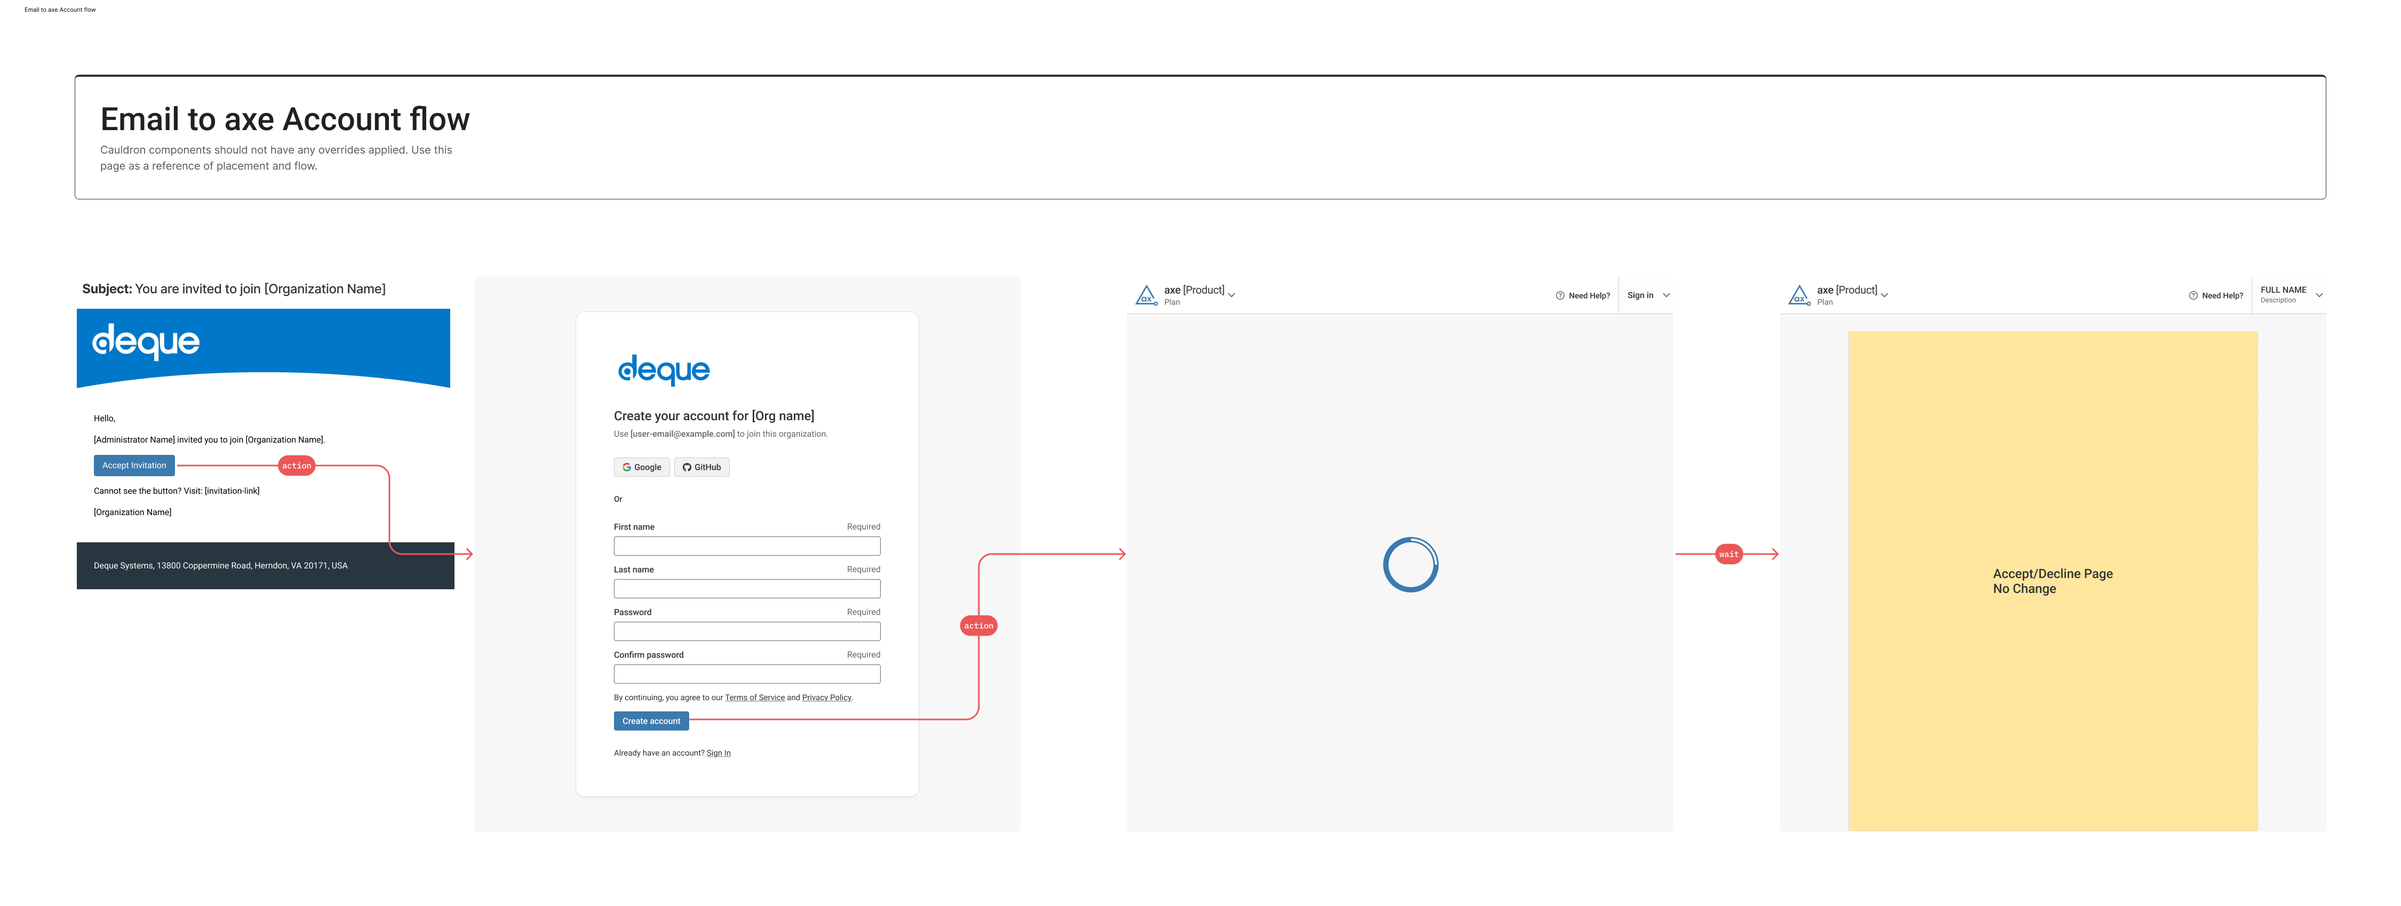
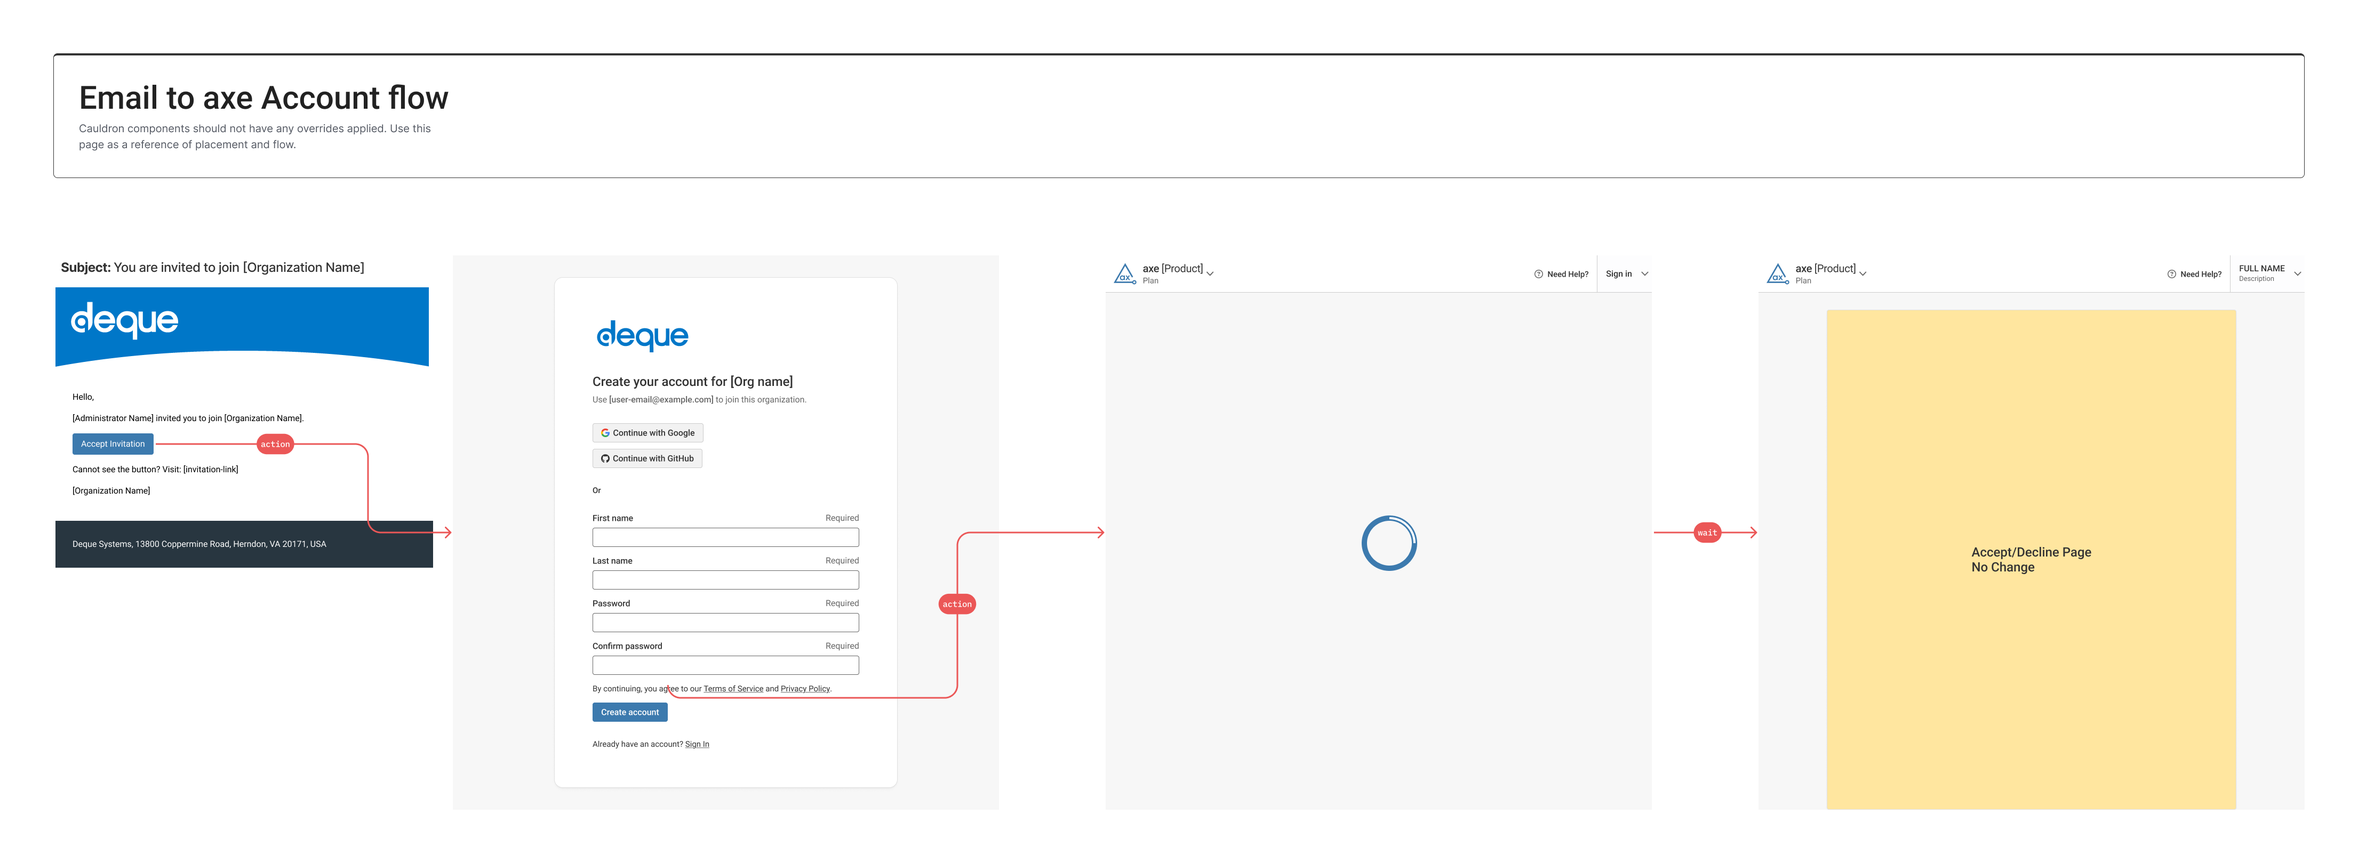
New case-study for invite

diff --git a/user-invites.html b/user-invites.html
@@ -1,0 +1,193 @@
+<!DOCTYPE html>
+<html lang="en">
+<head>
+<!-- Google tag (gtag.js) -->
+<script async src="https://www.googletagmanager.com/gtag/js?id=G-LLV9G8KB47"></script>
+<script>
+  window.dataLayer = window.dataLayer || [];
+  function gtag(){dataLayer.push(arguments);}
+  gtag('js', new Date());
+  gtag('config', 'G-LLV9G8KB47');
+</script>
+    <meta charset="UTF-8">
+    <meta name="viewport" content="width=device-width, initial-scale=1.0">
+    <meta name="description" content="A portfolio site dedicated to Shawn Sharp's work."/>
+    <meta name="keywords" content="interaction design, visual design, graphic design, ux design, product design"/>
+    <meta name="copyright" content="Copyright Shawn Sharp 2025"/>
+    <meta name="author" content="Shawn Sharp"/>
+    <title>Simplifying user invitations by Shawn Sharp</title>
+    <link rel="stylesheet" href="css/styles.css">
+</head>
+<body>
+    <a href="#main-content" class="skip-link">Skip to main content</a>
+    
+    <header>
+        <div class="container">
+            <div class="header-content">
+                <a href="/" aria-current="page" class="logo">
+                    <img src="img/Sharp.png" alt="Shawn Sharp Logo">
+                </a>
+                
+                <nav>
+                    <button aria-expanded="false" aria-controls="nav-menu" class="menu-toggle">Menu</button>
+                    <ul id="nav-menu" class="nav-menu">
+                        <li><a href="index.html#work">Work</a></li>
+                        <li><a href="index.html#about">About</a></li>
+                        <li><a href="index.html#contact">Contact</a></li>
+                    </ul>
+                </nav>
+            </div>
+        </div>
+    </header>
+
+    <main id="main-content">
+        <article id="project1" class="case-study">
+            <section class="case-studies-intro">
+                <div class="container">
+                    <h1>Simplifying user invitations</h1>
+                    <p>Reducing a 10-step invitation process to 4 by eliminating redundant verification and surfacing critical requirements upfront.</p>
+                </div>
+            </section>
+
+            <div class="container">
+                <section class="case-study-content">
+                    <h2>The problem</h2>
+                    <p>Enterprise customers were creating their own documentation to help employees get started with our products. These PDF guides, complete with screenshots and step-by-step instructions, revealed a critical usability failure in our invitation flow.</p>
+                    <p><strong>As one enterprise customer told us during a call:</strong> "It takes 13 steps just to get started."</p>
+                    <p>In reality, it was 10 steps, but that was hardly better. Users bounced between the web browser and their email repeatedly. The flow was fragmented, confusing, and inconsistent across different scenarios (SaaS, SSO, on-prem). Years of patched repairs had created mismatched terminology and unnecessary verification steps.</p>
+                    <p><strong>The consequences were significant:</strong></p>
+                    <ul>
+                        <li>Enterprise customers were spending time creating workaround documentation instead of trusting our product</li>
+                        <li>Support tickets piled up from users who accidentally signed up with different emails than their invitations</li>
+                        <li>The experience felt dated. Customers repeatedly described our interface as "Windows 95"</li>
+                        <li>New users faced friction before ever reaching the product, damaging first impressions</li>
+                        <li>Inconsistent flows across deployment types created confusion and eroded trust</li>
+                    </ul>
+                    <p>This was not just a usability problem. It was a credibility problem. We needed to eliminate the redundant steps, create consistency across all scenarios, and bring the experience into the current era.</p>
+                </section>
+
+                <section class="case-study-content">
+                    <h2>The solution</h2>
+                    <p>We reduced the invitation flow from 10 steps to 4, eliminating redundant verification steps and front-loading critical requirements. The redesigned flow keeps users in a single context, removes unnecessary form fields, and provides a modern, accessible interface.</p>
+                    <p><strong>Key innovations:</strong></p>
+                    <ul>
+                        <li>Moved terms and conditions consent upfront instead of mid-flow, eliminating a step and meeting legal requirements earlier</li>
+                        <li>Removed the signup form entirely since invited users already have validated email addresses</li>
+                        <li>Eliminated redundant email verification in invite flows (the invitation itself serves as verification</li>
+                        <li>Consolidated user interactions behind loading states, hiding unnecessary complexity</li>
+                        <li>Refreshed visual design with improved spacing, structured layouts, and modern aesthetic</li>
+                    </ul>
+                    <p><strong>The impact:</strong></p>
+                    <ul>
+                        <li>60% reduction in steps (from 10 to 4)</li>
+                        <li>Eliminated common support issue (wrong email during signup)</li>
+                        <li>Single, consistent flow across all deployment scenarios (SaaS, SSO, on-prem)</li>
+                        <li>Modern interface addresses long-standing "dated" perception</li>
+                        <li>Currently in development, scheduled for Q1 2026 release</li>
+                    </ul>
+
+                </section>
+                <section class="case-study-content">
+                    <h2>My role</h2>
+                    <p>I led end-to-end UX design in close collaboration with the product manager. This project was part of the account section I primarily support. My responsibilities included flow auditing, stakeholder research, interaction design, accessibility compliance, and delivering final designs. I worked with QA to document all flows, collaborated with the lead developer on technical constraints, and coordinated with security and legal teams on compliance requirements.</p>
+                    <p><strong>Tools:</strong> Figma, User Flow Workshops, Wireframing, Accessibility Annotations</p>
+                </section>
+
+                <section class="case-study-content">
+                    <h2>How we got there</h2>
+                    <h3>Research: understanding the fragmentation</h3>
+                    <p>When we started, we had feedback from large enterprise customers who complained loudly about the invitation experience. Smaller customers tended to accept the problems, but enterprise clients made their frustration clear. This project had been a persistent pain point but never prioritized until customer complaints became impossible to ignore.</p>
+                    <p>I began by auditing all invitation flows across our products. What happens when you add a user in on-prem versus SaaS? What differs between inviting an admin versus a regular user? Are flows consistent across solutions or completely different?</p>
+                    <div class="case-study-image">
+                        <img src="img/invite/invite-discovery.png" alt="10 step invite flow captured during our auditing of our products. It has large comments where opportunities exist.">
+                    </div>
+                    <p>With help from our QA team, I documented 9 different invitation-related flows and an additional 6 flows for deleting or managing users. Mapping these side-by-side revealed the extent of the problem.</p>
+                    <p><strong>Key research insights:</strong></p>
+                    <p><strong>Years of patch repairs created an inconsistent mess.</strong> Some flows used different terminology. Others had simplified certain steps while leaving others bloated. The most critical flows, the ones customers used daily, needed immediate attention.</p>
+
+                    <p><strong>Customers were creating workaround documentation.</strong> The fact that enterprise customers were producing PDF guides with screenshots showed our flow was too complex to navigate without external help. This was embarrassing evidence of our usability failure.</p>
+
+                    <p><strong>4 to 5 steps were pure fluff.</strong> Once all flows were visible side-by-side, it became immediately obvious which steps added no value. Email verification in an invite flow? The user already received the email. Signup forms when we already had their email? Unnecessary friction that caused support tickets.</p>
+                    <div class="case-study-image">
+                        <img src="img/invite/invite-final-flow.png" alt="The final refined flow where only 4 steps are needed, which includes a loading step.">
+                    </div>
+                    <p>I worked with the lead developer who understood Keycloak (our identity management system) inside and out. I needed to understand why we made certain decisions historically and whether changing them would break other systems. This partnership ensured we could simplify without introducing technical debt.</p>
+                </section>
+
+                <section class="case-study-content">
+                    <h3>Design strategy: eliminating redundancy</h3>
+                    <p>I created wireframe flows to review with stakeholders and the development team, ensuring we were not designing ourselves into a corner or removing critical information. This became an iterative process with security and legal teams.</p>
+                    <div class="case-study-image">
+                        <img src="img/invite/invite-wireframe.png" alt="4 step wireframe invite solution used to talk with stakeholders.">
+                    </div>
+                    <p><strong>Our core design principles:</strong></p>
+                    <p><strong>Surface critical requirements upfront.</strong> We moved terms and conditions consent to the beginning of the flow. This eliminated a mid-flow interruption and satisfied legal requirements earlier. Security and legal initially had concerns about removing the explicit checkbox in favor of "by continuing you agree to..." language, but we worked through compliance requirements together.</p>
+                    <img>
+                    <p><strong>Remove redundant verification.</strong> In an invite flow, we already sent the email to the user. Email verification was duplicating work we had already done. We eliminated this step entirely.</p>
+                    <p><strong>Eliminate the signup form.</strong> Users were receiving invitations with their email addresses already specified. We reduced form fields from 6 to 4, removing business email and company name since users were being invited to an existing company solution. Asking them to re-enter information we already had created opportunities for error and unnecessary friction. We had support tickets from users who accidentally signed up with different emails than their invitations. Simplifying the form to just first name, last name, and password (with confirmation) eliminated the entire problem.</p>
+                    <p><strong>Hide complexity users do not need to see.</strong> The small amount of time required to provision a user account does not need user interaction. We moved these processing steps behind loading indicators, reducing perceived steps while maintaining the same backend processes.</p>
+                    <p><strong>Bring the interface into the current era.</strong> Customers repeatedly called our interface "dated" and compared it to "Windows 95." Working within our Cauldron component library constraints, I refreshed the sign-in forms and invite forms with improved spacing, structured layouts, and generous white space. I had done this successfully on another project and knew I could elevate the experience again.</p>
+                    <div class="case-study-image" style="width: 32rem;">
+                        <img src="img/invite/sign-in-form.png" alt="Sign-in form updated to look fresh and new.">
+                    </div>
+                    <div class="case-study-image" style="width: 32rem;">
+                        <img src="img/invite/invite-form.png" alt="Invite form updated to look fresh and new.">
+                    </div>
+                    <p><strong>Maintain accessibility throughout.</strong> Every design decision included accessibility considerations. I created detailed annotations showing keyboard navigation, screen reader behavior, and ARIA implementations to ensure the simplified flow remained fully accessible.</p>
+                    <div class="case-study-image">
+                        <img src="img/invite/invite-annotate.png" alt="Invite form with accessibility annotations that include headings, focus order, and reading order.">
+                    </div>
+
+                </section>
+
+                <section class="case-study-content">
+                    <h3>Constraints and Collaboration</h3>
+                    <p>This project required coordinating multiple stakeholders with different concerns:</p>
+                    <p><strong>Technical constraints:</strong> We had to continue using Keycloak for identity management. We needed to support Google and GitHub as authentication providers. The solution had to work across all deployment scenarios: SaaS, SSO, and on-prem installations.</p>
+                    <p>Component constraints: We had to work within our Cauldron component library, a small set of accessible in-house components. This limited some design options but ensured consistency across products.</p>
+                    <p><strong>Compliance requirements:</strong> Security and legal teams needed assurance that simplifying the flow would not introduce vulnerabilities or legal risk. The iterative review process ensured we met all requirements while dramatically improving the experience.</p>
+                </section>
+
+                <section class="case-study-content">
+                    <h2>Results</h2>
+                    <p>The redesigned invitation flow is currently in development and scheduled for Q1 2026 release.</p>
+                    <p><strong>We reduced steps by 60%.</strong> From 10 steps down to 4 (arguably 3, since one is a loading state). Users now complete invitations in a single browser context without email interruptions.</p>
+                    <p><strong>We eliminated a common support problem.</strong> By removing the signup form, we prevented users from accidentally registering with different emails than their invitations. This support ticket category will disappear entirely.</p>
+                    <p><strong>We created consistency across all scenarios.</strong> One unified flow now works for SaaS, SSO, and on-prem deployments. Users experience the same streamlined process regardless of their organization's setup.</p>
+                    <p><strong>We modernized the interface.</strong> The refreshed visual design addresses long-standing customer feedback about the product feeling "dated." Improved spacing, structured layouts, and modern aesthetics bring the experience forward.</p>
+                </section>
+
+                <section class="case-study-content">
+                    <h2>Key learnings</h2>
+                    <p><strong>Technical debt becomes visible when you map everything.</strong> Documenting all 9 invitation flows and 6 user management flows side-by-side made years of inconsistent patches immediately obvious. Without this comprehensive view, we would have continued patching individual flows rather than solving the systemic problem.</p>
+                    <p><strong>Redundancy hides in plain sight.</strong> Once we questioned each step, the redundant verification became obvious: we were verifying emails we had already sent invitations to. Sometimes the solution is not adding something new but recognizing what can be removed.</p>
+                    <p><strong>Workaround documentation is a failure signal.</strong> When customers create their own guides to navigate your product, they are telling you the experience is too complex. Enterprise customers should not need to produce PDF documentation for a basic invitation flow. Their workarounds were a clear signal of our failure.</p>
+                    <p><strong>Constraints drive creativity.</strong> Working within our limited component library while refreshing the visual design forced creative solutions. Spacing, layout, and white space can dramatically improve perceived modernity without requiring new components. Sometimes elevation comes from better use of what you already have.</p>
+                </section>
+
+
+                <div class="case-study-navigation">
+                    <div class="nav-links">
+                        <!-- <a href="ios-testing-made-easy.html" class="nav-link">
+                            <span>Previous case study:</span>
+                            <span>iOS Accessibility Testing</span>
+                        </a> -->
+                        <a href="see-my-screen.html" class="nav-link next">
+                            <span>Next Case Study:</span>
+                            <span>iOS accessibility testing</span>
+                        </a>
+                    </div>
+                </div>
+            </div>
+        </article>
+    </main>
+
+    <footer>
+        <div class="container">
+            <p>&copy; <span id="current-year">2025</span> Shawn Sharp. All rights reserved.</p>
+            <a href="https://www.linkedin.com/in/sharpinit/" target="_blank" rel="noopener" aria-label="LinkedIn profile">LinkedIn</a>
+        </div>
+    </footer>
+    <script src="js/script.js"></script>
+</body>
+</html>

diff --git a/index.html b/index.html
@@ -82,6 +82,17 @@
                 
                 <div class="project-grid">
                     <article class="project-card">
+                        <a href="user-invites.html">
+                            <img src="img/invite/invite-hero.png" alt="Ball of knots wrapping around 10 steps that lead to a single line of 3 steps.">
+                            <div class="project-info">
+                                <h3>Simplifying user invitations</h3>
+                                <p>Reducing a 10-step invitation process to 4 by eliminating redundant verification and surfacing critical requirements upfront.</p>
+                                <span class="read-more">View case study &rarr;</span>
+                            </div>
+                        </a>
+                    </article>
+                    
+                    <article class="project-card">
                         <a href="ios-accessibility.html">
                             <img src="img/iostesting/ios-hero.png" alt="Developer IDE in the background of a simulated iOS device and the accessibility testing tool.">
                             <div class="project-info">

diff --git a/filtering.html b/filtering.html
@@ -150,12 +150,12 @@
                 </section>
                 <div class="case-study-navigation">
                     <div class="nav-links">
-                        <a href="ios-testing-made-easy.html" class="nav-link">
+                        <a href="ios-accessibility.html" class="nav-link">
                             <span>Previous case study:</span>
-                            <span>iOS Accessibility Testing</span>
+                            <span>iOS accessibility testing</span>
                         </a>
                         <a href="see-my-screen.html" class="nav-link next">
-                            <span>Next case study:</span>
+                            <span>Next Case Study:</span>
                             <span>"Can you see my screen?"</span>
                         </a>
                     </div>

diff --git a/ios-accessibility.html b/ios-accessibility.html
@@ -167,10 +167,10 @@
 
                 <div class="case-study-navigation">
                     <div class="nav-links">
-                        <!-- <a href="filtering-issues.html" class="nav-link">
+                        <a href="user-invites.html" class="nav-link">
                             <span>Previous case study:</span>
-                            <span>Filtering is Easy?</span>
-                        </a> -->
+                            <span>Simplifying user invitations</span>
+                        </a>
                         <a href="filtering.html" class="nav-link next">
                             <span>Next case study:</span>
                             <span>Filtering: built right not copied</span>

diff --git a/see-my-screen.html b/see-my-screen.html
@@ -17,7 +17,6 @@
     <meta name="author" content="Shawn Sharp"/>
     <title>Can You See My Screen? by Shawn Sharp</title>
     <link rel="stylesheet" href="css/styles.css">
-    <script src="js/script.js"></script>
 </head>
 <body>
     <a href="#main-content" class="skip-link">Skip to main content</a>
@@ -106,5 +105,6 @@
             <a href="https://www.linkedin.com/in/sharpinit/" target="_blank" rel="noopener" aria-label="LinkedIn profile">LinkedIn</a>
         </div>
     </footer>
+    <script src="js/script.js"></script>
 </body>
 </html>
